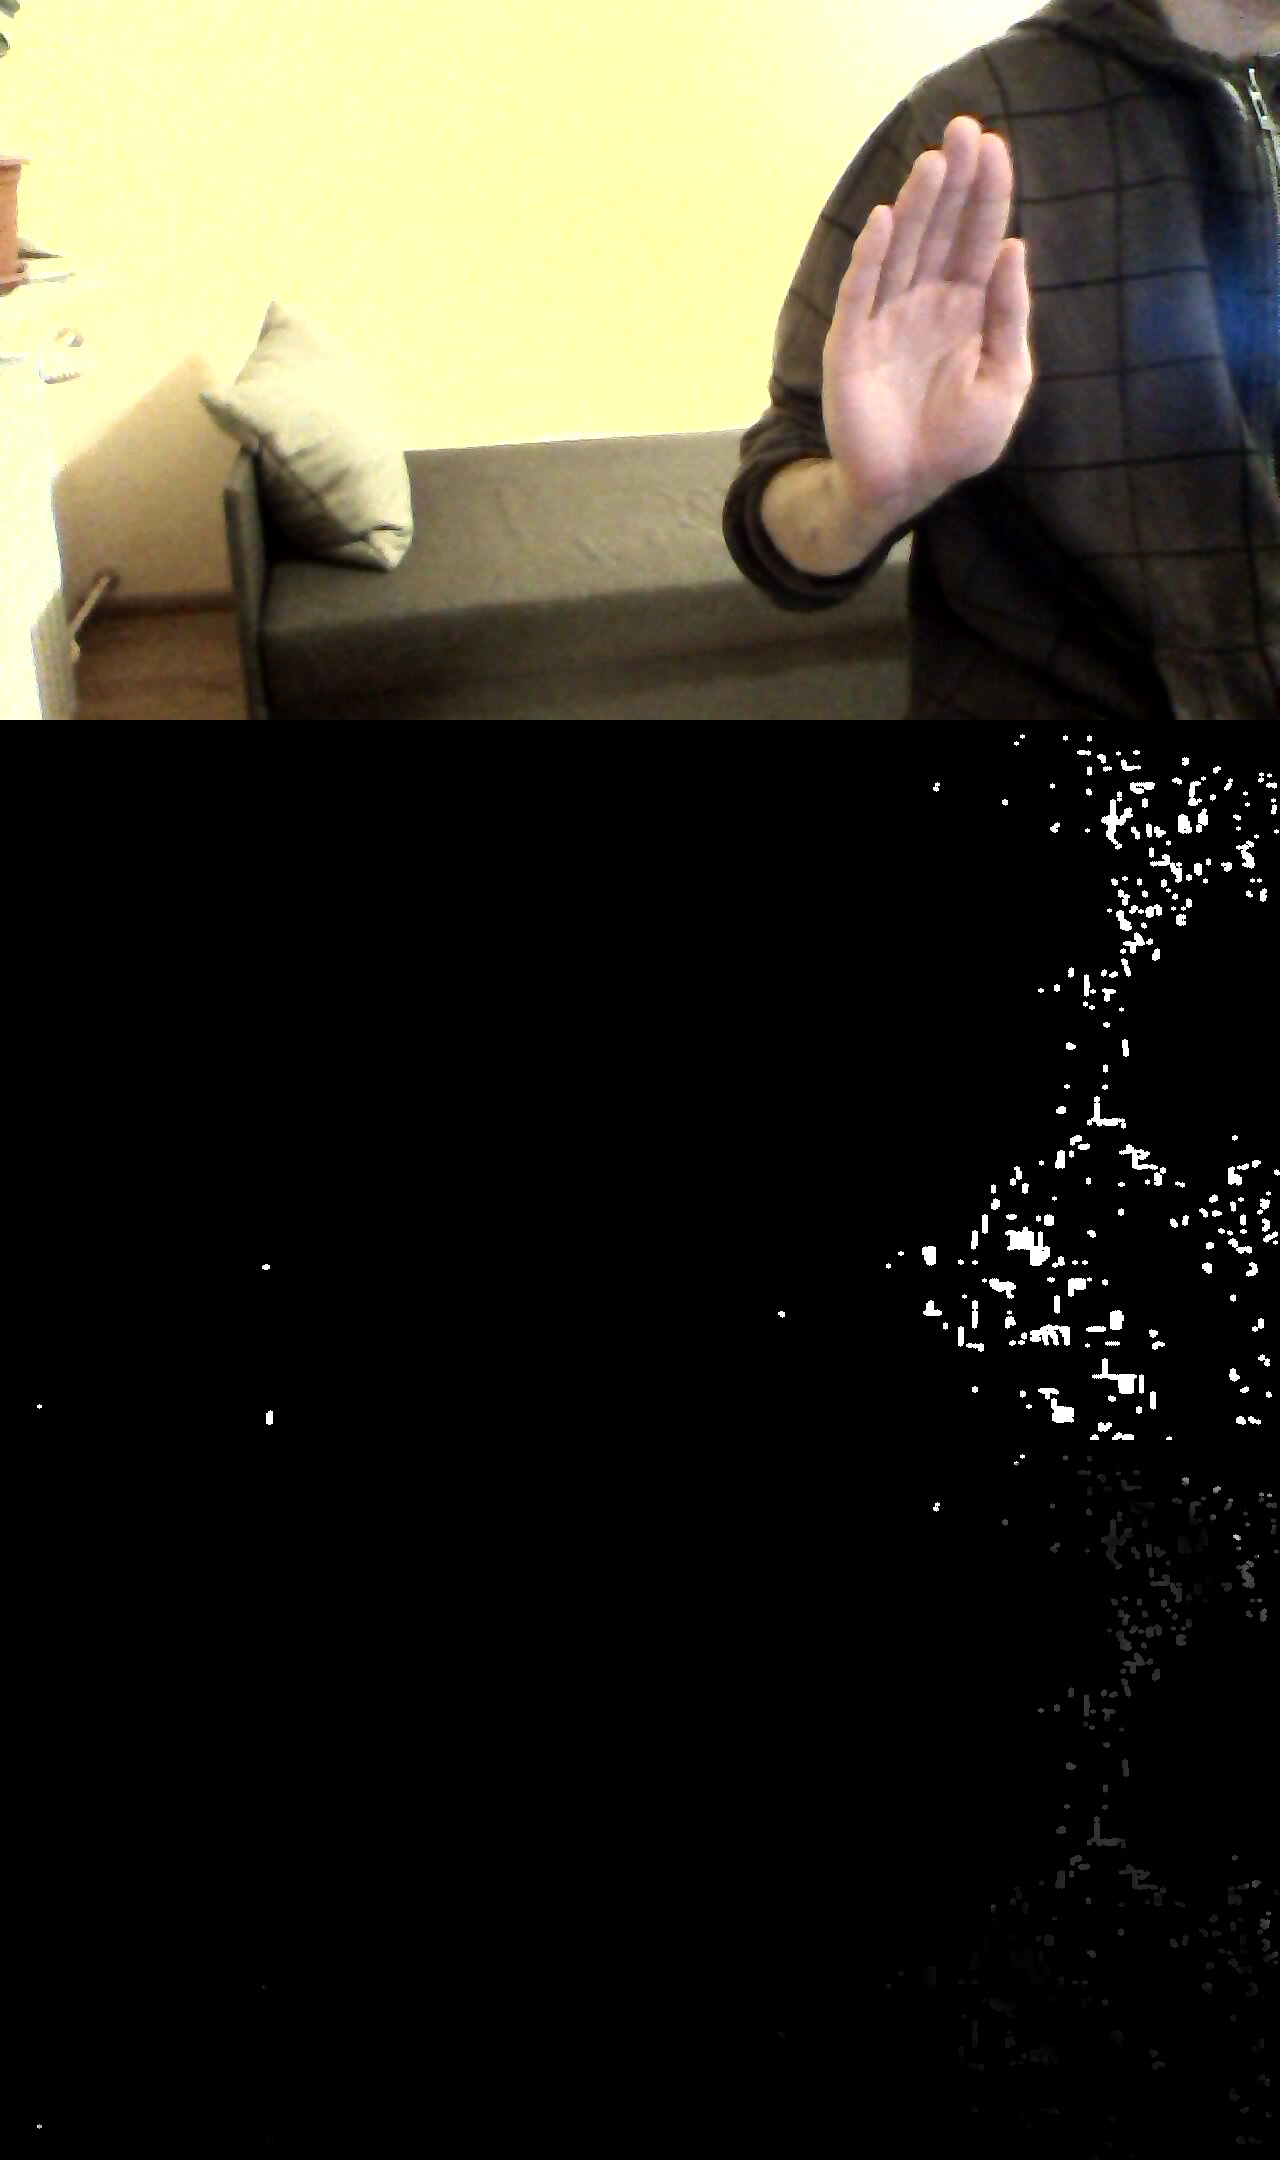
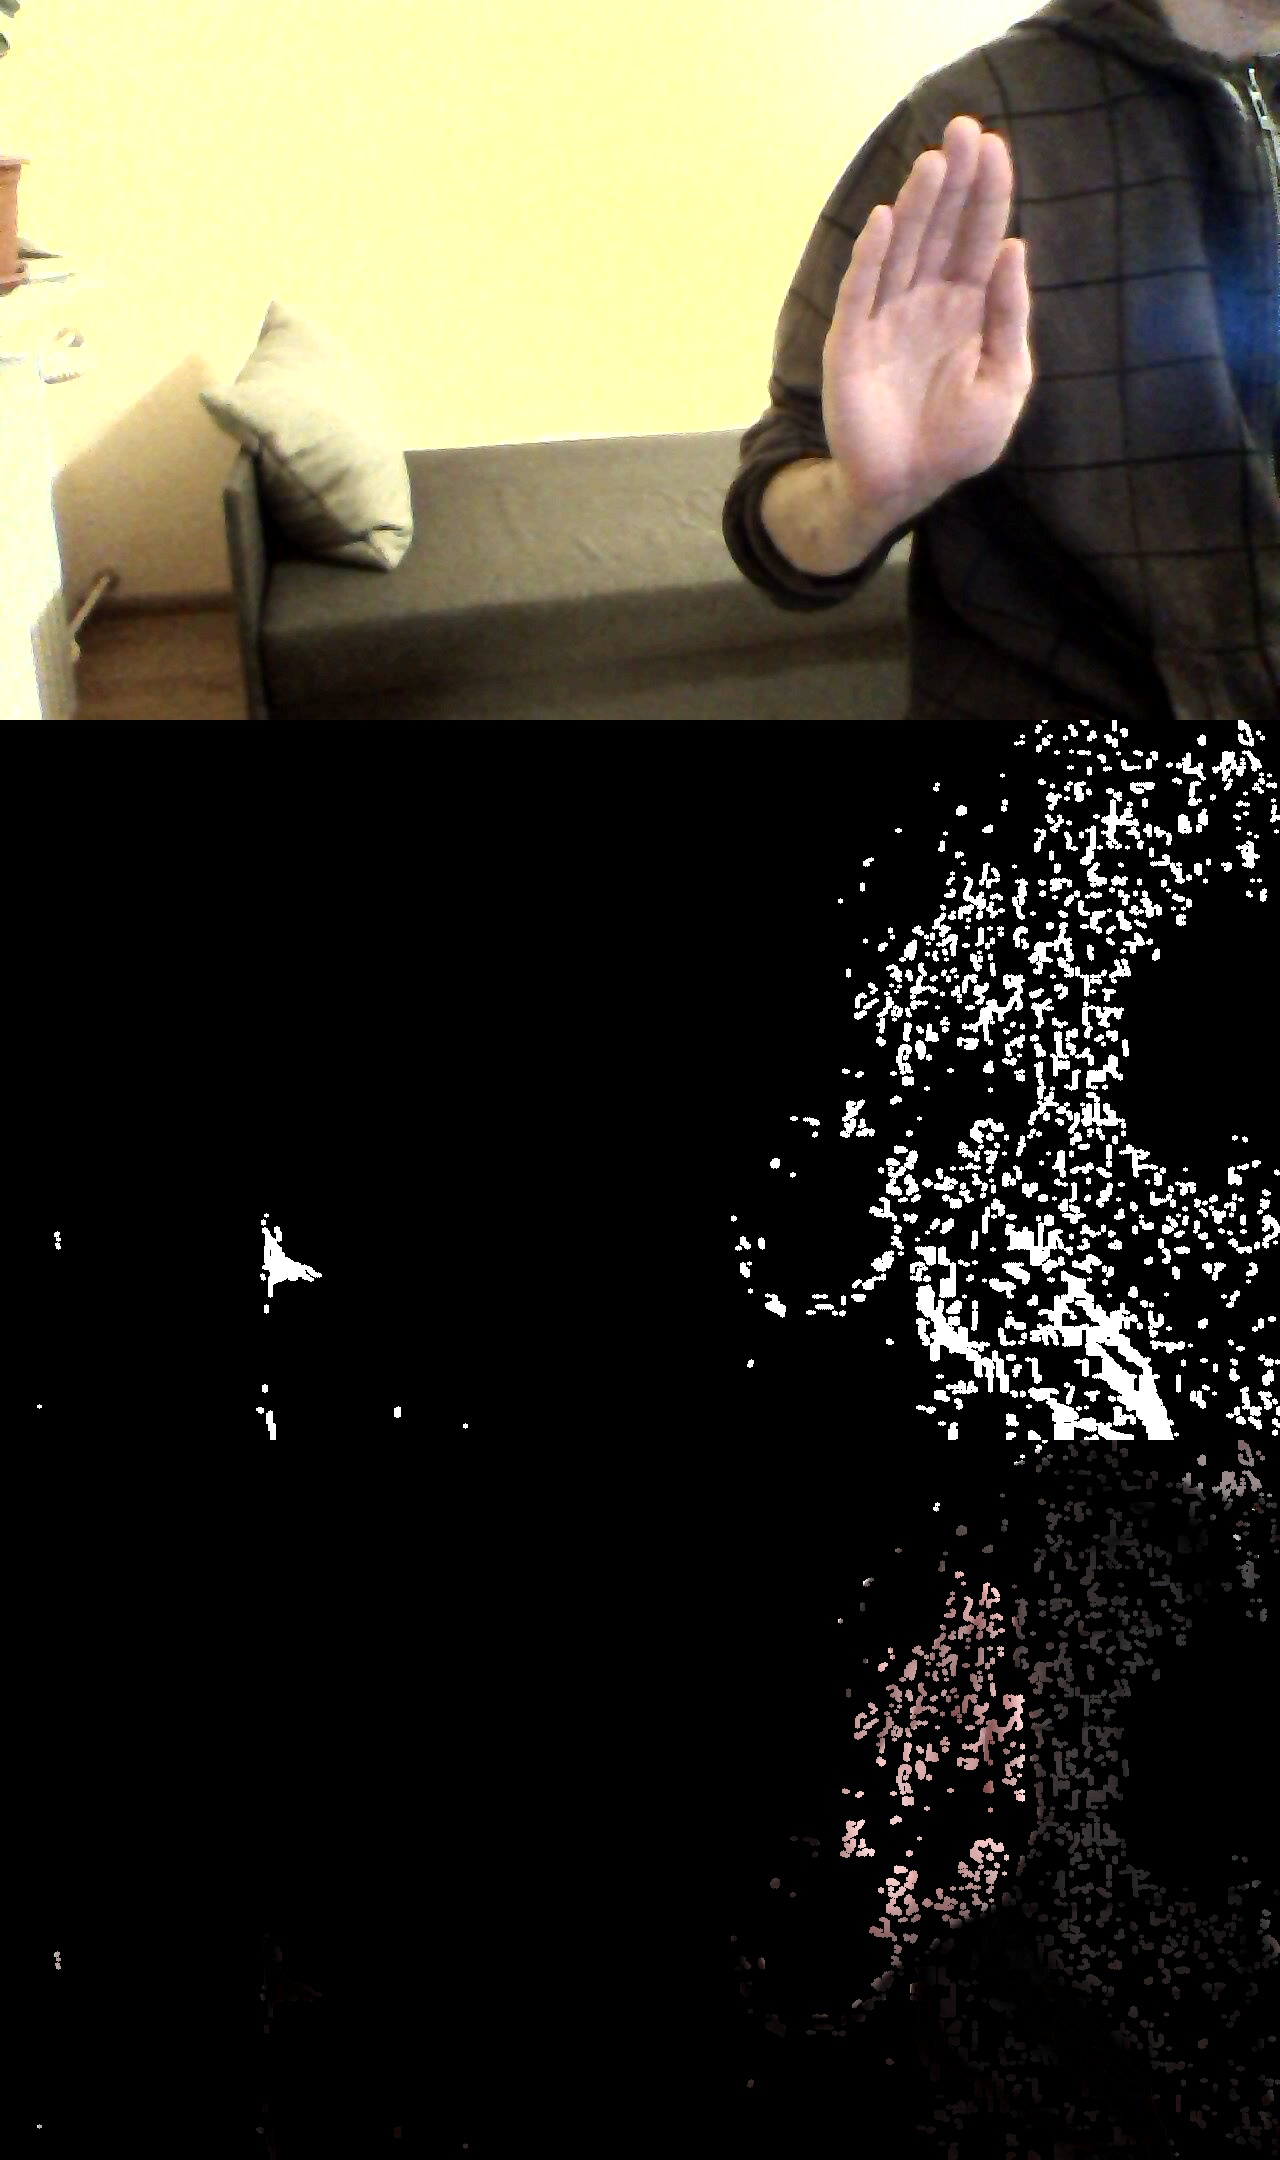
dwa kwafraty na pałe

diff --git a/FindHand2.py b/FindHand2.py
@@ -9,22 +9,31 @@ if __name__ == '__main__':
 	hsvt = cv2.cvtColor(target,cv2.COLOR_BGR2HSV)
 
 	#mix Channels
-	hue = np.empty(hsv.shape, np.uint8)
-	cv2.mixChannels(hsv,hue, [0, 0])	
+	hue = np.empty(hsv.shape, np.float32)
+	cv2.mixChannels(hsv.astype('float32'),hue, [0, 0])	
 	 
 	# calculating object histogram
-	roihist = cv2.calcHist([hue],[0, 1], None, [180, 256], [0, 180, 0, 256] )
+	roihist = cv2.calcHist([hue],[0, 0], None, [180, 256], [0, 180, 0, 256] )
 	 
 	# normalize histogram and apply backprojection
 	cv2.normalize(roihist,roihist,0,255,cv2.NORM_MINMAX)
-	dst = cv2.calcBackProject([hsvt],[0,1],roihist,[0,180,0,256],1)
+	dst = cv2.calcBackProject([hsvt],[0,0],roihist,[0,180,0,256],1)
+
+	#a minsziftem
+	term_crit = ( cv2.TERM_CRITERIA_EPS | cv2.TERM_CRITERIA_COUNT, 10, 1 )
+	ret, track_window = cv2.meanShift(dst, track_window, term_crit)
+
+	# Draw it on image
+	x,y,w,h = track_window
+	img2 = cv2.rectangle(frame, (x,y), (x+w,y+h), 255,2)
+	cv2.imshow('img2',img2)
 	 
 	# Now convolute with circular disc
 	disc = cv2.getStructuringElement(cv2.MORPH_ELLIPSE,(5,5))
 	cv2.filter2D(dst,-1,disc,dst)
 	 
 	# threshold and binary AND
-	ret,thresh = cv2.threshold(dst,50,255,0)
+	#ret,thresh = cv2.threshold(dst,0,255,0)
 	thresh = cv2.merge((thresh,thresh,thresh))
 	res = cv2.bitwise_and(target,thresh)
 	 
